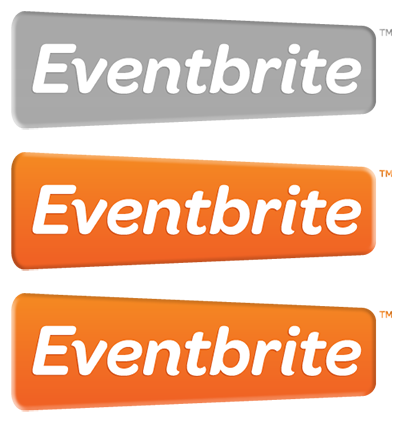
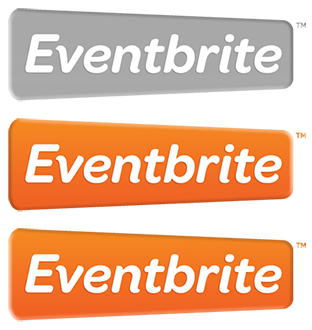
added yelp node code

diff --git a/public/css/styles.css b/public/css/styles.css
@@ -1,4 +1,4 @@
-body{font-size:1.5em;background:#fff;font-weight:100;color:#707077;text-shadow:0 -1px 0 #000000;}body strong{color:#555;}
+body{font-size:1.3em;background:#fff;font-weight:100;color:#707077;text-shadow:0 -1px 0 #000000;}body strong{color:#555;}
 @media (-webkit-min-device-pixel-ratio:2){body{font-size:2.5em;}}
 h1,h2,h3,h4,h5,h6{text-transform:uppercase;color:#222;font-weight:400;}
 h1{font-size:5em;line-height:.8em;font-weight:700;}@media (-webkit-min-device-pixel-ratio:2){h1{font-size:4em;}}
@@ -14,7 +14,7 @@ blockquote{font-family:serif;margin-left:2em;margin-right:2em;color:#aaa;font-st
 #page{padding:2em 0;background:#fff;}#page #header{padding:.5em 3em 0em 3em;}@media (max-width:700px),(-webkit-min-device-pixel-ratio:2){#page #header{padding:.5em 1em 0 1em;}}
 #page .section{padding:1em 3em 2em 3em;}@media (max-width:700px),(-webkit-min-device-pixel-ratio:2){#page .section{padding:.5em 1em 0 1em;}}#page .section.even{background-color:#f8f8f8;border-bottom:2px solid #f0f0f0;}
 #page .register p{margin-bottom:2em;}
-#page .register a#eventbrite_button{display:block;height:141px;width:400px;cursor:pointer;background:url('../images/eventbrite.png') top no-repeat;}#page .register a#eventbrite_button span{display:none;}
+#page .register a#eventbrite_button{display:block;height:110px;width:312px;cursor:pointer;background:url('../images/eventbrite.png') top no-repeat;}#page .register a#eventbrite_button span{display:none;}
 #page .register a#eventbrite_button:hover{background-position:center;}
 #page .register a#eventbrite_button:active{background-position:bottom;}
 #page .register label{font-family:Arial,Helvetica,sans-serif;}

diff --git a/server.js b/server.js
@@ -1,6 +1,21 @@
 var express = require('express');
 var lessMiddleware = require('less-middleware');
 
+/* Yelp stuff!
+*******************
+var yelp = require("yelp").createClient({
+  consumer_key: "5SqpGb9Y-jno81OO-VdJiA", 
+  consumer_secret: "J2Xm2uuWMwU_UexGCfg_VC9wznY",
+  token: "BPHSv44BV-e2nolQyUs1U1cSjWLxfbca",
+  token_secret: "QyRys2UNApDANO8ILK85FqwOOgc"
+});
+
+// See http://www.yelp.com/developers/documentation/v2/business
+yelp.business("supino-pizzeria-detroit", function(error, data) {
+  console.log(data);
+});
+*/
+
 var app = express();
 app.engine('.html', require('ejs').__express);
 app.set('views', __dirname + '/views');

diff --git a/public/css/styles.less b/public/css/styles.less
@@ -1,5 +1,5 @@
 body {
-	font-size: 1.5em;
+	font-size: 1.3em;
 	background: #fff;
 	font-weight: 100;
 	color: #707077;
@@ -68,8 +68,8 @@ blockquote {
 		a#eventbrite_button {
 			span{display: none;}
 			display: block;
-			height: 141px;
-			width: 400px;
+			height: 110px;
+			width: 312px;
 			cursor: pointer;
 			background: url('../images/eventbrite.png') top no-repeat;
 			&:hover{background-position: center;};
